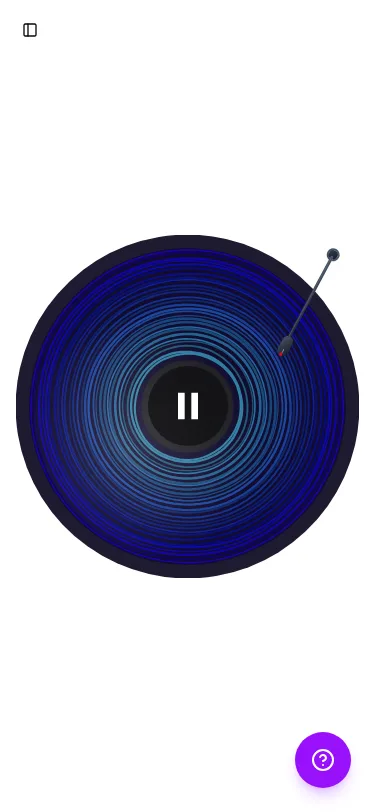
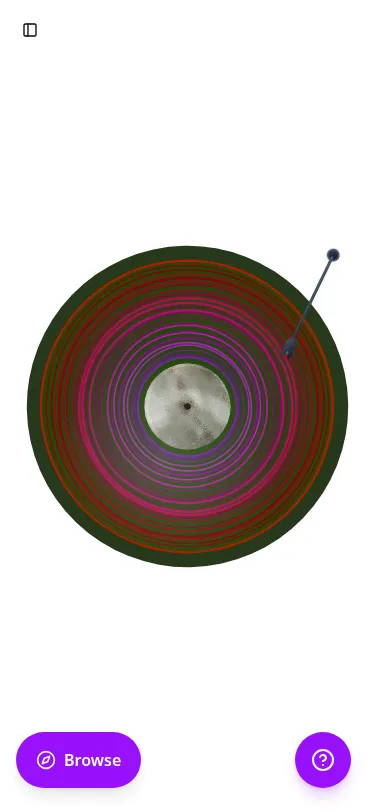
docs(projects): refresh pages for October 2026 releases (#115)
Spinnerr rewrite (rename, Browse, multi-source search, calendars, new
screenshots); puml 0.2.6, git-why 0.2.0, rssd 0.3.0, afterlife share
links and fork saves, glassy 0.6.2 and landing page, ticket-master
0.1.4, gh-stories 0.5.6, alliecode 0.1.0.

diff --git a/content/projects/spinerr.md b/content/projects/spinerr.md
@@ -1,16 +1,16 @@
 ---
-title: Spinerr
+title: Spinnerr
 date: 2025-11-04
-demo: https://spinerr-app.web.app
-description: "An ambient music dashboard built around a generative vinyl record: p5.js grooves seeded per track that pulse with the bass. A one-night prototype that needs some TLC."
+demo: https://spinnerr-app.web.app
+description: An ambient music player for a second screen, built around a generative vinyl record. Plays Audius, SoundCloud, radio and Internet Archive from one search, plus your own files.
 featured: false
-github: https://github.com/alliecatowo/spinerr
+github: https://github.com/alliecatowo/spinnerr
 group: creative-coding
 image: /images/projects/spinerr/card.webp
-imageAlt: "Spinerr playing a local test track: a green generative vinyl record with the tone arm down, a large clock, the track title and progress bar, and two sample calendar events."
+imageAlt: "Spinnerr playing a local test track: a green generative vinyl record with the tone arm down, a large clock, the track title and progress bar, and two sample calendar events."
 seo:
-  description: "An ambient music dashboard built around a generative vinyl record: p5.js grooves seeded per track that pulse with the bass. A one-night prototype."
-  title: "Spinerr: a generative vinyl music dashboard"
+  description: "An ambient music player for a second screen: a generative p5.js vinyl record, one search across Audius, SoundCloud, radio and the Internet Archive, and a calendar."
+  title: "Spinnerr: a generative vinyl music player"
 slug: spinerr
 status: published
 tags:
@@ -19,7 +19,6 @@ tags:
   - p5js
   - audio-visualization
   - nextjs
-  - prototype
 technologies:
   - Next.js
   - React
@@ -33,44 +32,60 @@ technologies:
 
 **A record player for a second monitor.**
 
-Spinerr is an ambient dashboard: a spinning vinyl record and player controls on one side, a calendar on the other, meant to sit on a spare screen while music plays. Allison built it in a single night in November 2025 (40 commits). It's a prototype and it reads like one, so this page says what's in the code rather than what it was going to be.
+Spinnerr is an ambient music player: a spinning vinyl record and player controls on one side, a clock and your upcoming events on the other, meant to sit on a spare screen while music plays. It began as a one-night prototype in November 2025 (40 commits), sat for most of a year, and was revived in October 2026. The project was called Spinerr until the rename to Spinnerr that month. This page covers what the live app does now, and where it still falls short.
 
 ## The record
 
-The record is the interesting part. It's a p5.js sketch that draws concentric groove rings, each nudged in and out by Perlin noise. The noise and random seed come from a hash of the track ID, so every track gets its own consistent pattern and colour. The groove paths are computed once and cached, and then live audio moves them: a Web Audio analyser splits the signal into frequency bands, and a smoothed bass level makes the record swell and glow on kick drums. The tone arm swings in and out with spring animation when playback starts and stops.
+The record is still the interesting part. It's a p5.js sketch that draws concentric groove rings, each nudged in and out by Perlin noise. The noise and random seed come from a hash of the track ID, so every track gets its own consistent pattern and colour. The groove paths are computed once and cached, and then live audio moves them: a Web Audio analyser splits the signal into frequency bands, and a smoothed bass level makes the record swell and glow on kick drums. The tone arm swings in and out with spring animation when playback starts and stops, and you can seek by dragging the grooves.
 
 ::demo-video
 ---
 height: 750
 width: 1200
-alt: "An 8 second screen recording of the deployed Spinerr app playing a
-  synthetic test track: the green generative vinyl record spins with the tone
-  arm down and its grooves pulse on each bass kick, beside a clock, the track
-  title and a progress bar."
+alt: "An 8 second screen recording of the deployed app playing a synthetic test
+  track: the green generative vinyl record spins with the tone arm down and its
+  grooves pulse on each bass kick, beside a clock, the track title and a
+  progress bar."
 mp4: /images/projects/spinerr/demo.mp4
 poster: /images/projects/spinerr/demo-poster.webp
 webm: /images/projects/spinerr/demo.webm
 ---
 ::
 
-*Recorded on the live site with a generated test track (a 2 Hz sine kick plus a tone, cover art embedded) picked through "Play Local Files". The grooves swell on every kick. The calendar entries are sample data.*
+*Recorded on the live site in its earlier, local-files-only state, with a generated test track (a 2 Hz sine kick plus a tone, cover art embedded) picked through "Play Local Files". The grooves swell on every kick. The sidebar and sample calendar in the clip are from that older version.*
 
-![Spinerr on a desktop screen: a sidebar with navigation, a green generative vinyl record with the tone arm resting on it, a large clock reading 10:24 PM, the now-playing title "test-beat" with a progress bar and player controls, and two sample calendar events.](/images/projects/spinerr/player-1440.webp)
+## What it does now
 
-*The deployed app playing a short test file from disk. The calendar entries are sample data.*
+It opens on a trending Audius station and starts playing. In a normal browser, autoplay is blocked until you interact, so the first thing you see is a "Tap to play" overlay, and the first tap or key press anywhere starts the music.
 
-![The same record on a 375 pixel wide phone screen, filling the width with blue grooves and the tone arm down, with the sidebar collapsed.](/images/projects/spinerr/player-375.webp)
+![Spinnerr on a desktop screen: a sidebar with Browse, Library and Settings, a blue and green generative vinyl record with the tone arm down, a large clock reading 2:05 PM, the now-playing title and artist with a progress bar and player controls.](/images/projects/spinerr/player-1440.webp)
 
-*On a phone-width screen the sidebar collapses and the record takes the whole width. Each track gets its own groove pattern and colour, which is why this one is blue and the one above is green.*
+*The live app at 1440 pixels wide, a few seconds into the default Audius station. The track is whatever was trending at the time.*
 
-## Try it
+- **Browse.** A view for finding something to play without searching: moods, Audius trending by genre, internet radio by tag or country (from radio-browser), and Internet Archive collections. Choosing one lands you back on the player with it playing.
+- **One search across sources.** A single query goes to Audius, SoundCloud, the Internet Archive and radio-browser, and the results are merged, deduplicated and ranked. If one source fails it's skipped quietly. For a search on "boards of canada" the check run for this rewrite returned 36 merged items.
+- **Your own files.** "Play Local Files" still works with no account or key. Tags and artwork are read in the browser.
+- **Calendars.** Upcoming events come from an ICS URL, an ICS file, or Google Calendar with read-only access. The sample events from the prototype are gone; with nothing connected the app says "Add your calendar to see what's coming up".
+- **Library and tour.** A saved library, a guided tour that starts once on desktop after something is playing, light and dark themes, and theater and fullscreen modes.
+- **Phones.** The sidebar collapses and the record takes the whole width. It was checked at 360, 390 and 412 pixels wide with no horizontal scroll.
 
-The p5.js vinyl version is now on `main` and deployed as a static site at [spinerr-app.web.app](https://spinerr-app.web.app). Use "Play Local Files" in the sidebar and pick audio files from your own machine. That path works, and it's what the record reacts to.
+![The same record on a 375 pixel wide phone screen, filling the width with pink, red and purple grooves over a photographic centre label, the tone arm down, with the sidebar collapsed and a Browse button at the bottom left.](/images/projects/spinerr/player-375.webp)
 
-## What's around it
+*On a phone-width screen the sidebar collapses and the record takes the whole width.*
 
-The repo has the start of several music sources: SoundCloud search and streaming through Next.js API routes, a Spotify client using PKCE OAuth with the user's own Spotify app credentials, and local files. The static build has no server, so SoundCloud and Spotify streaming don't work on the deployed site; only local files do. The README describes the library and calendar as running on mock data, ready for real integrations. There's also Firebase auth and Firestore wiring.
+## How it's put together
+
+The front end is still a static Next.js export on Firebase Hosting. The pieces that can't run in a browser are small Firebase Cloud Functions: one that proxies SoundCloud, one that fetches ICS calendars (it rejects the cloud metadata address), and one that turns off billing on the Google Cloud project if a $5 budget is exceeded. The old Next.js API routes that scraped SoundCloud are gone, which is what lets the site stay a static build.
+
+## Known limits
+
+- The SoundCloud function works by getting a client ID the way the SoundCloud web player does, from Google Cloud's network. It works today and could stop without notice.
+- Google Calendar needs a Google sign-in. The sign-in button renders and the ICS path was tested end to end, but the Google Calendar connection was not, and the Google sign-in setup for the new hosting address is unfinished.
+- Google's public holiday calendar returns HTTP 429 to the function; other ICS hosts work.
+- Spotify settings are still in the app, but Spotify can't stream. Jamendo and YouTube aren't connected.
+- The tour modal can cover the "Tap to play" button on a first visit.
+- Verification used playback position and network activity in headless Chrome, not listening to it. Whether the buffering change fixes a stutter at the start of the first track on a real phone is unconfirmed.
 
 ## Status
 
-Still a prototype, but it runs now. The repo was cleaned up (node\_modules untracked, a commercial MP3 and a debug log removed, the build fixed) and the vinyl player was revived with local playback and a static Firebase deploy. The [source is on GitHub](https://github.com/alliecatowo/spinerr), with no license yet.
+It works, and it's still a side project. The live site is at [spinnerr-app.web.app](https://spinnerr-app.web.app); the old spinerr-app.web.app address redirects there. The [source is on GitHub](https://github.com/alliecatowo/spinnerr) under the MIT license, and the old repository URL redirects to it. A playlist importer (paste a Spotify, YouTube Music or SoundCloud playlist link and match it across sources) is designed but not built.

diff --git a/content/projects/afterlife.md b/content/projects/afterlife.md
@@ -45,7 +45,7 @@ It runs in the browser with no account and no install. [Open it and touch the wo
 
 The history ribbon is the real record, not a recording. AFTERLIFE keeps a keyframe every 64 generations plus the edits you made, so jumping to any generation restores the nearest keyframe and replays forward bit-exactly. Generation 4,000 really is generation 4,000.
 
-Edit a cell in the past and the future **forks**. The original timeline keeps going on its own branch (up to eight branches, least recently used evicted first, except ones you've named), and a compare view diffs the two cell by cell. Branching only copies pointers to the parent's keyframes, so a "what if" is cheap. The "One Cell" experiment makes the point: flip one cell in the opening scene and the world is dead by generation 54, where the untouched timeline grows to a population of 221.
+Edit a cell in the past and the future **forks**. The original timeline keeps going on its own branch (up to eight branches, least recently used evicted first, except ones you've named), and a compare view diffs the two cell by cell. Saves now keep the forks and the Field Guide, so reopening a world brings the alternate futures back. The exception is a very long session whose history window has slid: then only the branch you were on is saved, as the root. Branching only copies pointers to the parent's keyframes, so a "what if" is cheap. The "One Cell" experiment makes the point: flip one cell in the opening scene and the world is dead by generation 54, where the untouched timeline grows to a population of 221.
 
 Then there's the **Time Sculpture**. Select a stretch of the world and AFTERLIFE lifts its recorded generations into a 3D stack you can orbit and slice. Time becomes the third axis, so still lifes turn into columns and gliders turn into inclined beams.
 
@@ -59,6 +59,7 @@ Then there's the **Time Sculpture**. Select a stretch of the world and AFTERLIFE
 - **Acid Art.** A glyph mode that draws cells as characters from a JetBrains Mono atlas, modulated by noise, plasma, an image, a video or your webcam.
 - **Rules and specimens.** Ten Life-like rule presets plus any custom B/S rulestring, RLE import, a Field Guide that recognises specimens as they appear, and three scored experiments.
 - **Sound.** A generative WebAudio soundscape driven by how much the world is changing, so it decays to real silence when the world is still, plus Web MIDI out with a panic button.
+- **Share links.** "Copy share link" in the Save panel puts the pattern and its rule in the URL hash (`#w=…`), and whoever opens the link lands on the same world. It shares your selection if you have one, otherwise the whole world, and links are capped at 6,000 characters; larger patterns are refused and have to go out as RLE or JSON.
 - **Export.** GIF, WebM, PNG and WAV, rendered from an independent offline replay rather than the live screen, so frame pacing is exact. The GIF encoder (median-cut quantiser, LZW and GIF89a writer) is hand-written and checked against Chromium's own decoder.
 
 ## Multiplayer with no server
@@ -70,6 +71,8 @@ Multiplayer is opt-in and works across browser tabs today. Each edit is stamped 
 AFTERLIFE went from first commit to v1.3.0 in about three days (7 to 9 September 2026): 68 commits and four releases. It was built by a parallel multi-agent harness, and the repo still has the append-only integration log the agents coordinated through.
 
 The docs only claim what was actually run. The opening encounter was found by simulation search. No puffer ships, because a search of more than 2,600 candidates didn't turn up one that verified cleanly. One rule preset was dropped because its advertised behaviour didn't reproduce. When Tailwind's production build quietly turned every colour lens white, the fix came with a Playwright project that builds for real and checks the canvas pixels. The README reports hundreds of unit tests and over a hundred Playwright specs, at desktop and phone sizes.
+
+The deploy is gated on the tests now: the workflow runs tests, builds, deploys, then a smoke check against the live site, and CI includes a production-build end-to-end project. The page also has link-preview metadata. Multiplayer across machines still needs a relay, and none is deployed.
 
 The Time Sculpture needs real WebGL, and it renders dark on software-only graphics.
 

diff --git a/content/projects/gh-stories.md b/content/projects/gh-stories.md
@@ -67,8 +67,12 @@ It also treats uploads and captions as hostile. Image dimensions are checked fro
 
 ## Status
 
-It went from first commit to v0.1.0 in a single day (September 13, 2026), and v0.5.4 is the current release. MIT licensed. Both clients install today: the CLI with `gh extension install alliecatowo/gh-stories` (or `brew install alliecatowo/tap/gh-stories`), and the extension as a side-loaded build from the [releases page](https://github.com/alliecatowo/gh-stories/releases/latest), since it isn't in any extension store.
+It went from first commit to v0.1.0 in a single day (September 13, 2026), and v0.5.6 (October 4, 2026) is the current release. MIT licensed. Both clients install today: the CLI with `gh extension install alliecatowo/gh-stories` (or `brew install alliecatowo/tap/gh-stories`), and the extension as a side-loaded build from the [releases page](https://github.com/alliecatowo/gh-stories/releases/latest), since it isn't in any extension store. The site has Chrome and Firefox install cards with "coming soon" store badges that link to the manual-install zips.
 
-**The hosted service is experimental and lags the release** (it still runs v0.4.1), so for dependable use [self-host](https://alliecatowo.github.io/gh-stories/docs/self-hosting/) the backend: a container, PostgreSQL, an S3-compatible bucket and a GitHub OAuth app. To see it without any setup, open the [demo with sample data](https://alliecatowo.github.io/gh-stories/demo/), which runs entirely in the browser with fictional accounts.
+**The hosted service is experimental and lags the release** (it was running v0.4.1 when last checked), so for dependable use [self-host](https://alliecatowo.github.io/gh-stories/docs/self-hosting/) the backend: a container, PostgreSQL, an S3-compatible bucket and a GitHub OAuth app. To see it without any setup, open the [demo with sample data](https://alliecatowo.github.io/gh-stories/demo/), which runs entirely in the browser with fictional accounts.
+
+The project site at [alliecatowo.github.io/gh-stories](https://alliecatowo.github.io/gh-stories/) was rebuilt in October with the project's own captures, and the docs and demo share its colours. Its hero image is from an older extension build, and the demo panel still uses some of the UI package's default blue and white.
+
+The extension was reworked for v0.5.6. The ring is now a sibling element measured over the avatar, so GitHub's own nodes are no longer moved and the page layout doesn't shift, and one shared React root draws every ring. Rings are re-applied when GitHub recycles an avatar image. A 401 on a sent token drops that account. The composer shows real upload progress and real error text. A new "following" lookup walks your GitHub follows, bounded, and is hidden on your own profile.
 
 ![The GitHub Stories demo viewer playing a sample concert Story from the fictional account otterframes.](/images/projects/gh-stories/demo-viewer.webp)

diff --git a/content/projects/rssd.md b/content/projects/rssd.md
@@ -79,14 +79,16 @@ The `rss` reader addresses entries by ID prefix, position or path, and `rss tui`
 
 ## How it was built
 
-Spec first, then code, in one evening on 15 September 2026: a 587-line spec and nine commits. Byte-exact captures of seven real feeds (including the GitHub blog, go.dev, Hacker News and xkcd) plus a local fixture server mean the whole thing runs with no network. The README counts about 300 tests. It's a small, sharp design exercise rather than a daily-driver reader, and it's on PyPI as [`rssd-fs`](https://pypi.org/project/rssd-fs/) (the `rssd` name there belongs to someone else). It needs Python 3.14:
+Spec first, then code, in one evening on 15 September 2026: a 587-line spec and nine commits. Byte-exact captures of seven real feeds (including the GitHub blog, go.dev, Hacker News and xkcd) plus a local fixture server mean the whole thing runs with no network. The README counts about 300 tests. It's a small, sharp design exercise rather than a daily-driver reader, and it's on PyPI as [`rssd-fs`](https://pypi.org/project/rssd-fs/) (the `rssd` name there belongs to someone else). It needs Python 3.12 or later (v0.3.0 lowered that from 3.14 only), and v0.3.0 is the current release:
 
 ```sh
 brew install alliecatowo/tap/rssd     # macOS and Linux, or:
-uv tool install 'rssd-fs[tui]' --python 3.14
+uv tool install 'rssd-fs[tui]'
 rssd add https://go.dev/blog/feed.atom
 rssd once
 rss tui
 ```
+
+v0.3.0 (4 October 2026) added `rssd import` and `rssd export` for OPML, so subscriptions can move in and out of other readers. The rest of it is hardening: full-text fetching resolves a host once and connects to the checked address, which closes a DNS rebinding hole; XML entity resolution is off; and subscription URLs must be http or https. Fixes include duplicate polling chains, a 200 response that isn't a feed now counting as a failure, the daemon exiting non-zero if its scheduler dies, and entry files being fsynced. CI runs on Python 3.12 and 3.14. Perf work on the event loop and the TUI refresh is still open, and so is a retention limit for tracked entries.
 
 The `rssd` and `rss` commands then keep their data in your user data directory by default. [Docs](https://alliecatowo.github.io/rssd/), [spec](https://github.com/alliecatowo/rssd/blob/main/SPEC.md), MIT.

diff --git a/content/projects/git-why.md b/content/projects/git-why.md
@@ -69,4 +69,6 @@ Git Why ships an MCP server plus Claude Code and OpenCode plugins. The plugin's 
 
 ## Status
 
-Built from 9 to 11 September 2026: 163 commits on `main`, Apache-2.0. Install it from npm with `npm install -g @alliecatowo/git-why` (v0.1.1, Node 22.12 or later), or with `brew install alliecatowo/tap/git-why`, which gives you `git why` plus a `git-why-mcp` server for agents. The [docs site](https://alliecatowo.github.io/git-why/) has [recorded sessions](https://alliecatowo.github.io/git-why/guide/examples) against real repositories if you'd rather just watch. The [benchmark report](https://github.com/alliecatowo/git-why/blob/main/docs/report.md) and [decisions log](https://github.com/alliecatowo/git-why/blob/main/docs/decisions.md) are worth a read.
+Built from 9 to 11 September 2026: 163 commits on `main`, Apache-2.0. Install it from npm with `npm install -g @alliecatowo/git-why` (v0.2.0, Node 22.12 or later), or with `brew install alliecatowo/tap/git-why`, which gives you `git why` plus a `git-why-mcp` server for agents. The server is also listed in the official MCP registry as `io.github.alliecatowo/git-why`. The [docs site](https://alliecatowo.github.io/git-why/) has [recorded sessions](https://alliecatowo.github.io/git-why/guide/examples) against real repositories if you'd rather just watch. v0.2.0 (4 October 2026) is mostly a hardening release. Three integration tests that had been failing were fixed properly: fixtures now isolate the global Git config, and the non-UTF-8 path and broken-pipe cases are covered. CI gained network-free integration and Node-engine-floor jobs. The MCP server's working directory is now confined to the server's own directory or the paths in `GIT_WHY_MCP_ROOTS`, which is a behaviour change if you pointed it elsewhere. The extraction and ranking policy versions were bumped, so an existing index rebuilds once on first use. The release workflow also had to be re-run once, because npm's CDN served 404s for a fresh tarball for over ten minutes; the wait is now 15 minutes. The new CI jobs aren't yet required checks on `main`.
+
+The [benchmark report](https://github.com/alliecatowo/git-why/blob/main/docs/report.md) and [decisions log](https://github.com/alliecatowo/git-why/blob/main/docs/decisions.md) are worth a read.

diff --git a/content/projects/puml.md b/content/projects/puml.md
@@ -72,7 +72,9 @@ puml was an experiment in fast, AI-assisted engineering, which the README says o
 
 ## Status
 
-It's an early 0.x release, MIT licensed, and paused since June 2026. The [docs site](https://alliecatowo.github.io/puml/), [gallery](https://alliecatowo.github.io/puml/gallery/) and editor are live. v0.2.2 is out with release binaries (Linux and macOS, with cosign signatures and checksums), a Homebrew formula and a crates.io package. A VS Code extension, [`alliecatowo.puml-vscode`](https://open-vsx.org/extension/alliecatowo/puml-vscode) (0.2.2), is on Open VSX and needs the `puml` binary on your PATH.
+It's an early 0.x release, MIT licensed, and mostly paused since June 2026, apart from a hardening pass in early October. The [docs site](https://alliecatowo.github.io/puml/), [gallery](https://alliecatowo.github.io/puml/gallery/) and editor are live. v0.2.6 is out with release binaries (Linux and macOS, with cosign signatures and checksums), a Homebrew formula and a [crates.io package](https://crates.io/crates/puml). The crates.io release goes out through trusted publishing, so no long-lived registry token is stored in the repo. A VS Code extension, [`alliecatowo.puml-vscode`](https://open-vsx.org/extension/alliecatowo/puml-vscode) (0.2.6), is on Open VSX and needs the `puml` binary on your PATH; it isn't on the VS Code Marketplace.
+
+The October pass was mostly security and correctness. `file://` includes are now confined to an include root (the CLI, the VS Code fallback and the MCP server all pass one), and there are tests for the MCP server's include and output-path limits. Fixes include XML-invalid character references, nested fences, every `@start*` block type, LSP positions in UTF-16 units, `--watch` using the normal pipeline, `!ifdef` on variables, and a 64-megapixel cap on raster output. The release workflow was also tightened: pinned actions, per-job permissions and a check that the tag matches `Cargo.toml`. v0.2.5 exists on GitHub only, because its crates.io publish failed on a trusted-publishing setting; v0.2.6 is the first version where every channel went out cleanly. Diagnostic columns are still counted in characters rather than UTF-16 units, and several lower-priority bugs are open.
 
 ```sh
 brew install alliecatowo/tap/puml

diff --git a/content/projects/ticket-master.md b/content/projects/ticket-master.md
@@ -104,14 +104,20 @@ About 858 commits in two weeks (September 15 to 29, 2026), which Allison directe
 
 ## Status and trying it
 
-v0.1.1 is the current release, with prebuilt `tm` binaries for Linux and macOS (x86\_64 and arm64) on the [release page](https://github.com/alliecatowo/ticket-master/releases/tag/v0.1.1). It isn't on crates.io, because the workspace's internal crate names aren't free there. There's a [docs site](https://alliecatowo.github.io/ticket-master/) and a [browser demo](https://alliecatowo.github.io/ticket-master/demo/) of the accept and dispatch flow.
+v0.1.4 (October 4, 2026) is the current release, with prebuilt `tm` binaries for Linux and macOS (x86\_64 and arm64), each with a checksum, on the [release page](https://github.com/alliecatowo/ticket-master/releases/tag/v0.1.4). The Homebrew formula tracks it. Since v0.1.1 the changes are small: under the conservative oversight setting, an agent running `sh -c` now needs approval, and the server's 60-second request timeout no longer applies to the event stream or to approvals. The default autonomous setting is unchanged. It isn't on crates.io, because the workspace's internal crate names aren't free there. There's a [docs site](https://alliecatowo.github.io/ticket-master/) and a [browser demo](https://alliecatowo.github.io/ticket-master/demo/) of the accept and dispatch flow.
 
 ```sh
 brew install alliecatowo/tap/ticket-master   # installs the tm CLI
 tm init
 ```
 
-To build from source instead:
+To install from source with cargo:
+
+```sh
+cargo install --git https://github.com/alliecatowo/ticket-master --locked tm-cli
+```
+
+That line is in the README and was checked by CI on Linux and macOS, not run on Allison's own machine. To build a checkout instead:
 
 ```sh
 git clone https://github.com/alliecatowo/ticket-master.git && cd ticket-master

diff --git a/content/projects/alliecode.md b/content/projects/alliecode.md
@@ -52,4 +52,14 @@ The docs also list the largest gaps: the original's very large UI component inve
 
 ## Status
 
-Source is on GitHub under Apache-2.0, as a single initial commit from April 2026. Two things are worth knowing. The `cmd/ac` entry point that the build scripts and CI refer to is not in the public repository (the repo's `.gitignore` excludes a path named `ac`), so the program cannot be built from a fresh checkout, and the one CI run on record failed. There is no demo media for the same reason.
+Source is on GitHub under Apache-2.0, started with a single initial commit in April 2026. The first public release, v0.1.0, came out on October 4, 2026. For months the `cmd/ac` entry point that the build scripts refer to was missing from the public repository, because a `.gitignore` rule excluded a path named `ac`, so it could not be built from a fresh checkout. That was fixed before the release, and the release workflow built it and passed.
+
+v0.1.0 has archives for Linux, macOS and Windows (amd64 and arm64), `.deb` and `.rpm` packages for Linux, and a Homebrew formula:
+
+```sh
+brew install alliecatowo/tap/alliecode
+# or
+go install github.com/alliecatowo/alliecode/cmd/ac@latest
+```
+
+The command is `ac`. The parity numbers above haven't changed, and there is still no demo media.

diff --git a/content/projects/glassy.md b/content/projects/glassy.md
@@ -93,4 +93,4 @@ Releases are published to the `alliecatowo/tap` Homebrew tap automatically: the 
 brew install --cask alliecatowo/tap/glassy
 ```
 
-Linux users can `brew install alliecatowo/tap/glassy` (the formula builds from source) or use the packages; install commands for Fedora and Debian/Ubuntu are on the [package repository page](https://alliecatowo.github.io/glassy/), and every build is on the [releases page](https://github.com/alliecatowo/glassy/releases). The latest release is v0.6.1 (July 9, 2026). MIT licensed.
+The CLI-only formula, `brew install alliecatowo/tap/glassy`, installs a prebuilt binary on macOS and on x86\_64 Linux; on aarch64 Linux it builds from source. Fedora and Debian/Ubuntu users can use the apt and dnf repositories, and every build is on the [releases page](https://github.com/alliecatowo/glassy/releases). Glassy now has a [landing page](https://alliecatowo.github.io/glassy) with install tabs for Homebrew, the install script, apt, dnf and a direct download, plus screenshots from the repo; the apt and dnf repositories are served from the same site. The latest release is v0.6.2 (October 4, 2026). MIT licensed.
